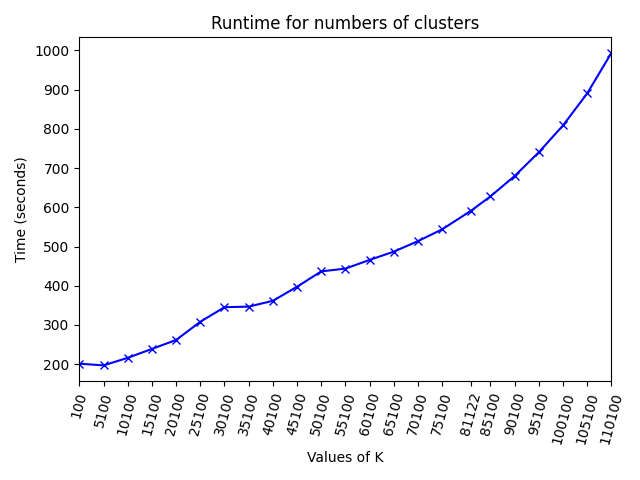
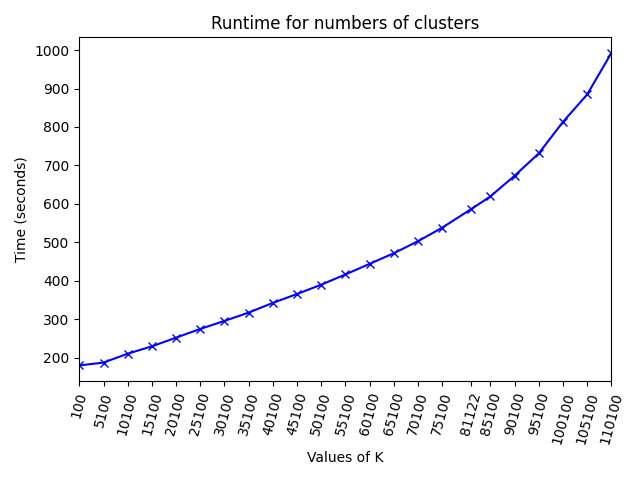
Adjusted Rand Index

diff --git a/sbert.py b/sbert.py
@@ -25,60 +25,61 @@ sentences = data['descp']
 
 model = SentenceTransformer('./paraphrase-distilroberta-base-sefaz', device='cuda')
 
-embeddings = model.encode(sentences, show_progress_bar=True, batch_size=16)
-cluster.gpu_clustering(k, embeddings, data, keep_clusters=False)
+embeddings = model.encode(sentences, show_progress_bar=True)
+# print(cluster.gpu_clustering(k, embeddings, data, keep_clusters=False))
 
 
-# # Homogeneity Test
-# K = [*range(100, k+(3*10**4), 5000)]
-# K.append(k)
-# K.remove(80100)
-# K.sort()
 
-# homogeneity_all = []
-# time_all = []
-# savingDataList = []
+# Adjusted Rand Index
+K = [*range(100, k+(3*10**4), 5000)]
+K.append(k)
+K.remove(80100)
+K.sort()
+
+adjusted_rand_index_all = []
+time_all = []
+savingDataList = []
 
 
-# for k_ in K:
-#     start = time()
+for k_ in K:
+    start = time()
 
-#     homogeneity = cluster.gpu_clustering(k_, embeddings, data, keep_clusters=False)
-#     homogeneity_all.append(homogeneity)
+    adjusted_rand_index = cluster.gpu_clustering(k_, embeddings, data, keep_clusters=False)
+    adjusted_rand_index_all.append(adjusted_rand_index)
 
-#     end = time()
+    end = time()
 
-#     run_time = end - start
-#     time_all.append(run_time)
+    run_time = end - start
+    time_all.append(run_time)
 
-#     tmpDict = {
-#         'K Value': k_,
-#         'Homogeneity': homogeneity,
-#         'Runtime': run_time
-#     }
-#     savingDataList.append(tmpDict)
+    tmpDict = {
+        'K Value': k_,
+        'Adjusted Rand Index': adjusted_rand_index,
+        'Runtime': run_time
+    }
+    savingDataList.append(tmpDict)
 
-# # Saving results
-# savingDataframe = DataFrame(savingDataList)
-# savingDataframe.to_csv("data/homogeneity_runtime_results.csv", index=False)
+# Saving results
+savingDataframe = DataFrame(savingDataList)
+savingDataframe.to_csv("data/adjusted_rand_index_runtime_results.csv", index=False)
 
-# # Ploting results
-# plt.plot(K, homogeneity_all, 'bx-')
-# plt.xlabel('Values of K')
-# plt.ylabel('Homogeneity')
-# plt.title('The Homogeneity for numbers of clusters')
-# plt.xticks(K, rotation=75, fontsize=10)
-# plt.margins(x=0)
-# plt.tight_layout()
-# plt.savefig("homogeneity_graph.png")
-# plt.close()
+# Ploting results
+plt.plot(K, adjusted_rand_index_all, 'bx-')
+plt.xlabel('Values of K')
+plt.ylabel('Adjusted Rand Index')
+plt.title('Adjusted Rand Index for numbers of clusters')
+plt.xticks(K, rotation=75, fontsize=10)
+plt.margins(x=0)
+plt.tight_layout()
+plt.savefig("adjusted_rand_index_graph.png")
+plt.close()
 
-# plt.plot(K, time_all, 'bx-')
-# plt.xlabel('Values of K')
-# plt.ylabel('Time (seconds)')
-# plt.title('Runtime for numbers of clusters')
-# plt.xticks(K, rotation=75, fontsize=10)
-# plt.margins(x=0)
-# plt.tight_layout()
-# plt.savefig("runtime_graph.png")
-# plt.close()
+plt.plot(K, time_all, 'bx-')
+plt.xlabel('Values of K')
+plt.ylabel('Time (seconds)')
+plt.title('Runtime for numbers of clusters')
+plt.xticks(K, rotation=75, fontsize=10)
+plt.margins(x=0)
+plt.tight_layout()
+plt.savefig("runtime_graph.png")
+plt.close()

diff --git a/cluster.py b/cluster.py
@@ -5,7 +5,7 @@ import validateCluster as valCluster
 import os, glob
 import numpy as np
 import matplotlib.pyplot as plt
-from sklearn.metrics import homogeneity_score
+from sklearn.metrics import precision_score, recall_score, f1_score, adjusted_rand_score, homogeneity_score
 from sklearn.preprocessing import LabelEncoder
 
 def preprocessing(text):
@@ -77,4 +77,10 @@ def __clustering(k, embeddings, data, kmeans_, keep_clusters):
         for f in files:
             os.remove(f)
 
-    return homogeneity_score(LabelEncoder().fit_transform(data['gtin']), clustering_model.labels_)
+    return adjusted_rand_score(LabelEncoder().fit_transform(data['gtin']), clustering_model.labels_)
+    
+    # {
+    #     'precision': precision_score(LabelEncoder().fit_transform(data['gtin']), clustering_model.labels_, average='macro'),
+    #     'recall': recall_score(LabelEncoder().fit_transform(data['gtin']), clustering_model.labels_, average='macro'),
+    #     'f1_score': f1_score(LabelEncoder().fit_transform(data['gtin']), clustering_model.labels_, average='macro')
+    # }

diff --git a/validateCluster.py b/validateCluster.py
@@ -10,9 +10,9 @@ def accClusters(k):
     for i in range(k):
         dataTmp = pd.read_csv("clusters/cluster" + str(i) +".csv")
 
-        if dataTmp['gtin'].count() == 1:
-            tmp_k-=1
-            continue
+        # if dataTmp['gtin'].count() == 1:
+        #     tmp_k-=1
+        #     continue
 
         uniques_gtin, count_gtin = np.unique(dataTmp['gtin'].values, return_counts=True)
         all_acc += (np.max(count_gtin)/np.sum(count_gtin))
